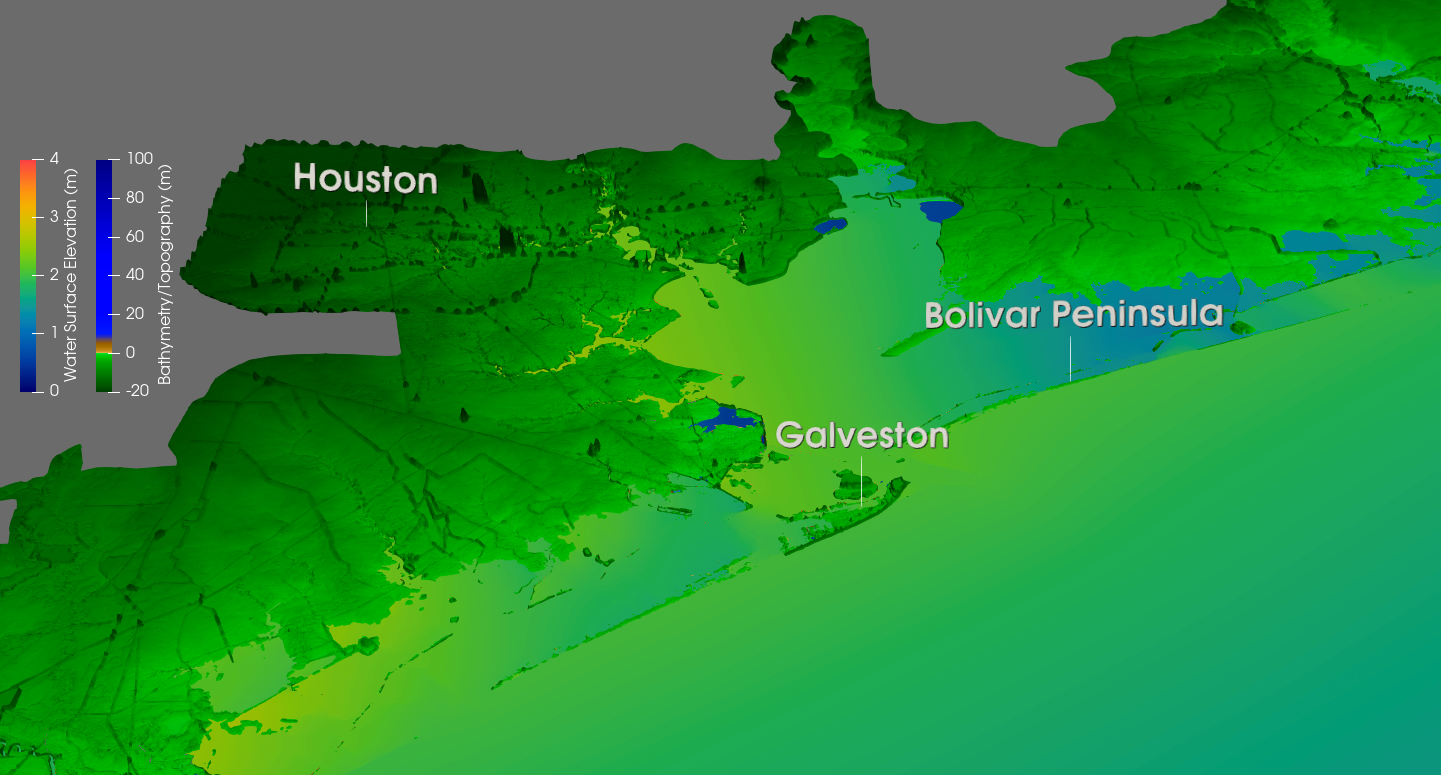
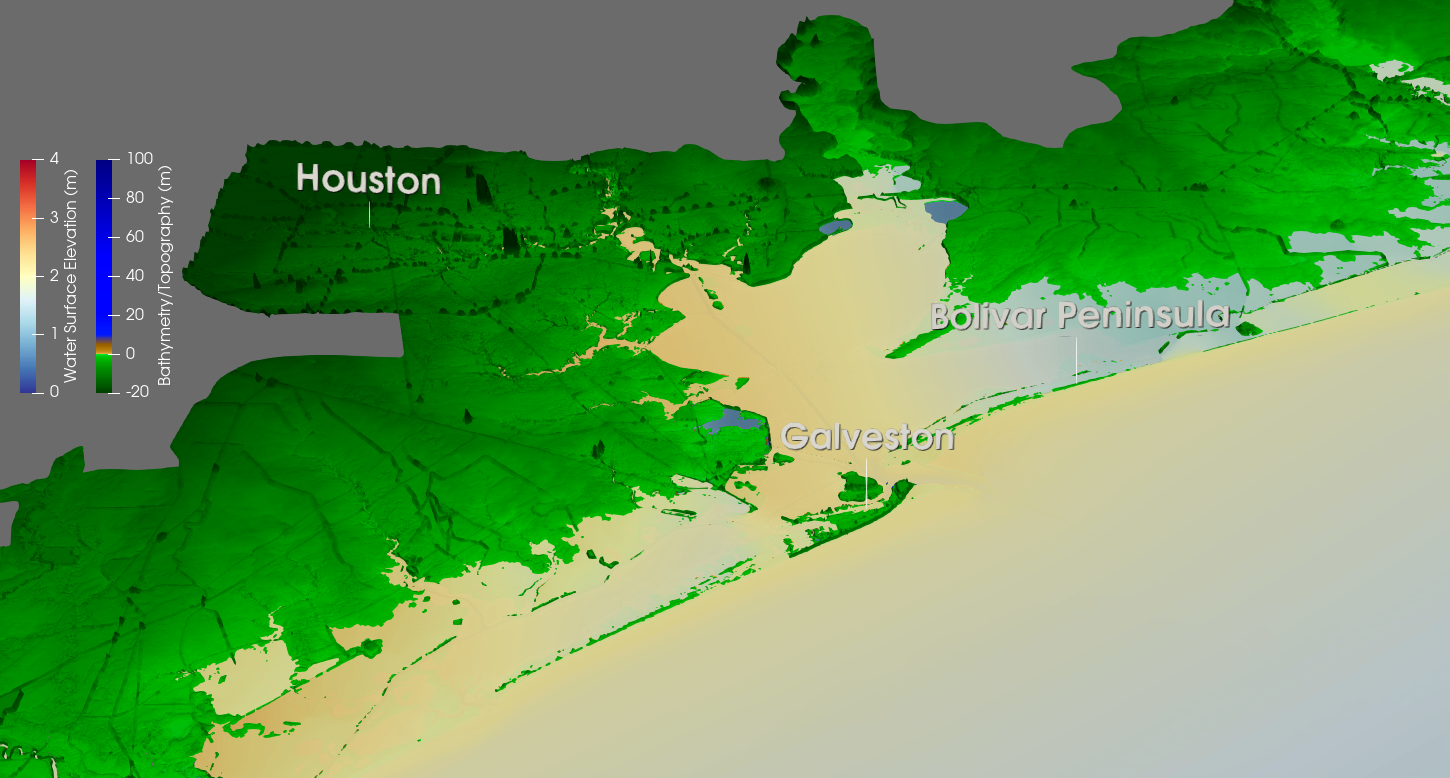
Update example case with new features

diff --git a/examples/la-tx-examples/ex-ts-beta/zoomToHouston3D.py b/examples/la-tx-examples/ex-ts-beta/zoomToHouston3D.py
@@ -1,7 +1,8 @@
-# trace generated using paraview version 5.8.0-RC2
-#
-# To ensure correct image size when batch processing, please search 
-# for and uncomment the line `# renderView*.ViewSize = [*,*]`
+# Script to zoom in to an ADCIRC domain, focusing on a 3D view of the Galveston-Houston area
+# Prerequisites: blueBrownGreenBathyTopo and RdYlBu_Brewer color maps must be loaded into ParaView
+
+# This script can handle a ParaView visualization made from following ADCIRC output files: 
+# maxele.63.nc, fort.63.nc, or combined fort.63.nc and fort.74.nc
 
 #### import the simple module from the paraview
 from paraview.simple import *
@@ -25,12 +26,22 @@ materialLibrary1 = GetMaterialLibrary()
 # reset view to fit data
 renderView1.ResetCamera()
 
+# set the camera position
 camera = GetActiveCamera()
 camera.SetFocalPoint(-95.19302128239202, 32.94282894775019, -2.89647689891553)
 camera.SetPosition(-94.85091145906816, 28.34005264848789, 0.9544883671462076)
 camera.SetViewUp(0.013093331933432064, 0.642206844249245, 0.7664195547207202)
 Render()
 
+# find source
+if (FindSource('fort.63.nc_fort.74.nc.xmf')) is not None:
+	generalSource = FindSource('fort.63.nc_fort.74.nc.xmf')
+elif (FindSource('fort.63.nc.xmf')) is not None:
+	generalSource = FindSource('fort.63.nc.xmf')
+elif (FindSource('maxele.63.nc.xmf')) is not None:
+	generalSource = FindSource('maxele.63.nc.xmf')
+
+#### This section defines the color mapping properties for bathymetry/topography ####
 # get color transfer function/color map for 'BathymetricDepth'
 bathymetricDepthLUT = GetColorTransferFunction('BathymetricDepth')
 bathymetricDepthLUT.RGBPoints = [-106.09833, 0.231373, 0.298039, 0.752941, 3938.042335, 0.865003, 0.865003, 0.865003, 7982.183, 0.705882, 0.0156863, 0.14902]
@@ -50,14 +61,6 @@ bathymetricDepthPWF.RescaleTransferFunction(-20.0, 100.0)
 # Properties modified on bathymetricDepthLUT
 bathymetricDepthLUT.AutomaticRescaleRangeMode = 'Never'
 
-# find source
-if (FindSource('fort.63.nc_fort.74.nc.xmf')) is not None:
-	generalSource = FindSource('fort.63.nc_fort.74.nc.xmf')
-elif (FindSource('fort.63.nc.xmf')) is not None:
-	generalSource = FindSource('fort.63.nc.xmf')
-elif (FindSource('maxele.63.nc.xmf')) is not None:
-	generalSource = FindSource('maxele.63.nc.xmf')
-
 # get color legend/bar for bathymetricDepthLUT in view renderView1
 bathymetricDepthLUTColorBar = GetScalarBar(bathymetricDepthLUT, renderView1)
 bathymetricDepthLUTColorBar.ComponentTitle = ''
@@ -69,53 +72,50 @@ bathymetricDepthLUTColorBar.Title = 'Bathymetry/Topography (m)'
 bathymetricDepthLUTColorBar.AddRangeLabels = 0
 bathymetricDepthLUTColorBar.ScalarBarLength = 0.3
 bathymetricDepthLUTColorBar.ScalarBarThickness = 16
+#### end definition of bathymetry/topography color map properties ####
 
-warpByScalar1 = WarpByScalar(Input=generalSource)
-warpByScalar1.Scalars = ['POINTS', 'BathymetricDepth']
-warpByScalar1.ScaleFactor = -0.001
-warpByScalar1Display = Show(warpByScalar1, renderView1, 'UnstructuredGridRepresentation')
+#### This section defines scalar warp properties to produce an exaggerated 3D effect based on bathymetry/topography values ####
+bathyTopoScalarWarp = WarpByScalar(registrationName='BathyTopoWarp',Input=generalSource)
+bathyTopoScalarWarp.Scalars = ['POINTS', 'BathymetricDepth']
+bathyTopoScalarWarp.ScaleFactor = -0.001
+bathyTopoScalarWarpDisplay = Show(bathyTopoScalarWarp, renderView1, 'UnstructuredGridRepresentation')
 Hide(generalSource, renderView1)
-warpByScalar1Display.SetScalarBarVisibility(renderView1, True)
+bathyTopoScalarWarpDisplay.SetScalarBarVisibility(renderView1, True)
 renderView1.Update()
 bathymetricDepthLUTColorBar.WindowLocation = 'AnyLocation'
 bathymetricDepthLUTColorBar.Position = [0.066870229007633, 0.4953642384105963]
+#### end definition of bathymetry/topography scalar warp properties ####
 
-# create a new 'Threshold'
-threshold1 = Threshold(Input=generalSource)
+#### This section defines the color mapping properties for water surface elevation ####
+# create a new 'Threshold' to filter out ADCIRC missing values for water surface elevation
+zetaThreshold = Threshold(registrationName='WaterSurfEleThreshold',Input=generalSource)
 if (FindSource('maxele.63.nc.xmf')) is not None:
-	threshold1.Scalars = ['POINTS', 'zeta_max']
+	zetaThreshold.Scalars = ['POINTS', 'zeta_max']
 else:
-	threshold1.Scalars = ['POINTS', 'zeta']
+	zetaThreshold.Scalars = ['POINTS', 'zeta']
 	
-threshold1.ThresholdRange = [-9999.0, 7982.183]
+zetaThreshold.ThresholdRange = [-9999.0, 7982.183]
 
 # show data in view
-threshold1Display = Show(threshold1, renderView1, 'UnstructuredGridRepresentation')
+zetaThresholdDisplay = Show(zetaThreshold, renderView1, 'UnstructuredGridRepresentation')
 
 # set scalar coloring
-ColorBy(threshold1Display, ('POINTS', threshold1.Scalars[1]))
+ColorBy(zetaThresholdDisplay, ('POINTS', zetaThreshold.Scalars[1]))
 
 # rescale color and/or opacity maps used to include current data range
-threshold1Display.RescaleTransferFunctionToDataRange(True, False)
+zetaThresholdDisplay.RescaleTransferFunctionToDataRange(True, False)
 
 # show color bar/color legend
-threshold1Display.SetScalarBarVisibility(renderView1, True)
+zetaThresholdDisplay.SetScalarBarVisibility(renderView1, True)
 
-# get color transfer function/color map for 'zeta'
-zetaLUT = GetColorTransferFunction(threshold1.Scalars[1])
-zetaLUT.RGBPoints = [-2.651, 0.231373, 0.298039, 0.752941, 0.8777015514658117, 0.865003, 0.865003, 0.865003, 4.406403102931623, 0.705882, 0.0156863, 0.14902]
-zetaLUT.ScalarRangeInitialized = 1.0
+# get color transfer function/color map for 'zeta' or 'zeta_max'
+zetaLUT = GetColorTransferFunction(zetaThreshold.Scalars[1])
 
-# get opacity transfer function/opacity map for 'zeta'
-zetaPWF = GetOpacityTransferFunction(threshold1.Scalars[1])
-zetaPWF.Points = [-2.651, 0.0, 0.5, 0.0, 4.406403102931623, 1.0, 0.5, 0.0]
-zetaPWF.ScalarRangeInitialized = 1
-
-# Hide orientation axes
-renderView1.OrientationAxesVisibility = 0
+# get opacity transfer function/opacity map for 'zeta' or 'zeta_max'
+zetaPWF = GetOpacityTransferFunction(zetaThreshold.Scalars[1])
 
 # Apply a preset using its name. Note this may not work as expected when presets have duplicate names.
-zetaLUT.ApplyPreset('erdc_rainbow_dark', True)
+zetaLUT.ApplyPreset('RdYlBu_Brewer', True)
 
 # Rescale transfer function
 zetaLUT.RescaleTransferFunction(0.0, 5.0)
@@ -124,9 +124,6 @@ zetaLUT.RescaleTransferFunction(0.0, 5.0)
 zetaPWF.RescaleTransferFunction(0.0, 5.0)
 
 zetaLUT.AutomaticRescaleRangeMode = 'Never'
-
-# Properties modified on threshold1Display
-threshold1Display.Opacity = 0.9
 
 # get color legend/bar for zetaLUT in view renderView1
 zetaLUTColorBar = GetScalarBar(zetaLUT, renderView1)
@@ -139,28 +136,30 @@ zetaLUTColorBar.Title = 'Water Surface Elevation (m)'
 zetaLUTColorBar.AddRangeLabels = 0
 zetaLUTColorBar.ScalarBarLength = 0.3
 zetaLUTColorBar.ScalarBarThickness = 16
+#### end definition of water surface elevation color map properties ####
 
-warpByScalar2 = WarpByScalar(Input=threshold1)
-warpByScalar2.Scalars = ['POINTS', threshold1.Scalars[1]]
-warpByScalar2.ScaleFactor = 0.001
-warpByScalar2Display = Show(warpByScalar2, renderView1, 'UnstructuredGridRepresentation')
-Hide(threshold1, renderView1)
-warpByScalar2Display.SetScalarBarVisibility(renderView1, True)
-#ColorBy(warpByScalar2Display, ('POINTS', threshold1.Scalars[1]))
+#### This section defines scalar warp properties to produce an exaggerated 3D effect based on water surface elevation values ####
+zetaScalarWarp = WarpByScalar(registrationName='WaterSurfEleWarp',Input=zetaThreshold)
+zetaScalarWarp.Scalars = ['POINTS', zetaThreshold.Scalars[1]]
+zetaScalarWarp.ScaleFactor = 0.001
+zetaScalarWarpDisplay = Show(zetaScalarWarp, renderView1, 'UnstructuredGridRepresentation')
+Hide(zetaThreshold, renderView1)
+zetaScalarWarpDisplay.SetScalarBarVisibility(renderView1, True)
+#ColorBy(zetaScalarWarpDisplay, ('POINTS', zetaThreshold.Scalars[1]))
 renderView1.Update()
 zetaLUTColorBar.WindowLocation = 'AnyLocation'
 zetaLUTColorBar.Position = [0.013879250520472147, 0.4953642384105963]
 
 # get display properties
-warpByScalar2Display = GetDisplayProperties(warpByScalar2, view=renderView1)
+zetaScalarWarpDisplay = GetDisplayProperties(zetaScalarWarp, view=renderView1)
 # set scalar coloring
-ColorBy(warpByScalar2Display, ('POINTS', threshold1.Scalars[1]))
+ColorBy(zetaScalarWarpDisplay, ('POINTS', zetaThreshold.Scalars[1]))
 # Hide the scalar bar for this color map if no visible data is colored by it.
 HideScalarBarIfNotNeeded(bathymetricDepthLUT, renderView1)
 # rescale color and/or opacity maps used to include current data range
-warpByScalar2Display.RescaleTransferFunctionToDataRange(True, False)
+zetaScalarWarpDisplay.RescaleTransferFunctionToDataRange(True, False)
 # show color bar/color legend
-warpByScalar2Display.SetScalarBarVisibility(renderView1, True)
+zetaScalarWarpDisplay.SetScalarBarVisibility(renderView1, True)
 # change scalar bar placement
 zetaLUTColorBar.WindowLocation = 'AnyLocation'
 zetaLUTColorBar.Position = [0.013879250520472147, 0.4953642384105963]
@@ -168,3 +167,11 @@ zetaLUTColorBar.Position = [0.013879250520472147, 0.4953642384105963]
 zetaLUT.RescaleTransferFunction(0.0, 5.0)
 # Rescale transfer function
 zetaPWF.RescaleTransferFunction(0.0, 5.0)
+
+# Opacity/lighting properties
+zetaScalarWarpDisplay.Opacity = 0.95
+zetaScalarWarpDisplay.Diffuse = 0.9
+#### end definition of water surface elevation scalar warp properties ####
+
+# Hide orientation axes
+renderView1.OrientationAxesVisibility = 0

diff --git a/examples/la-tx-examples/ex-ts-beta/labelsHouston.py b/examples/la-tx-examples/ex-ts-beta/labelsHouston.py
@@ -1,3 +1,6 @@
+# Script to add location labels, compatible with zoomToHouston3D script
+# coordinates of text base positions were obtained from lat/long values for each location
+
 #### import the simple module from the paraview
 from paraview.simple import *
 #### disable automatic camera reset on 'Show'
@@ -6,40 +9,44 @@ paraview.simple._DisableFirstRenderCameraReset()
 renderView1 = GetActiveViewOrCreate('RenderView')
 
 cam = GetActiveCamera()
+# get the viewUp vector for the camera
+# a scalar multiple of this vector will be added to each bottom coordinate of the text flagpoles
+# to obtain a top coordinate that ensures the text will face the camera
+# if this vector is not added, the text will not properly face the camera
 viewUp = cam.GetViewUp()
 viewUpScale = 0.05
 
-text1 = Text()
-text1Display = Show(text1, renderView1, 'TextSourceRepresentation')
-text1Display.TextPropMode = 'Flagpole Actor'
-text1.Text = 'Houston'
-text1Display.FontSize = 45
-text1Display.Bold = 1
-text1Display.Shadow = 1
-text1Display.BasePosition = [-95.3698, 29.7604, 0.0]
-text1Display.TopPosition = [-95.3698 + viewUp[0]*viewUpScale, 29.7604 + viewUp[1]*viewUpScale, viewUp[2]*viewUpScale]
+textHouston = Text(registrationName='TextHouston')
+textHoustonDisplay = Show(textHouston, renderView1, 'TextSourceRepresentation')
+textHoustonDisplay.TextPropMode = 'Flagpole Actor'
+textHouston.Text = 'Houston'
+textHoustonDisplay.FontSize = 45
+textHoustonDisplay.Bold = 1
+textHoustonDisplay.Shadow = 1
+textHoustonDisplay.BasePosition = [-95.3698, 29.7604, 0.0]
+textHoustonDisplay.TopPosition = [-95.3698 + viewUp[0]*viewUpScale, 29.7604 + viewUp[1]*viewUpScale, viewUp[2]*viewUpScale]
 renderView1.Update()
 
-text2 = Text()
-text2Display = Show(text2, renderView1, 'TextSourceRepresentation')
-text2Display.TextPropMode = 'Flagpole Actor'
-text2.Text = 'Galveston'
-text2Display.FontSize = 45
-text2Display.Bold = 1
-text2Display.Shadow = 1
-text2Display.BasePosition = [-94.7977, 29.3013, 0.0]
-text2Display.TopPosition = [-94.7977 + viewUp[0]*viewUpScale, 29.3013 + viewUp[1]*viewUpScale, viewUp[2]*viewUpScale]
+textGalveston = Text(registrationName='TextGalveston')
+textGalvestonDisplay = Show(textGalveston, renderView1, 'TextSourceRepresentation')
+textGalvestonDisplay.TextPropMode = 'Flagpole Actor'
+textGalveston.Text = 'Galveston'
+textGalvestonDisplay.FontSize = 45
+textGalvestonDisplay.Bold = 1
+textGalvestonDisplay.Shadow = 1
+textGalvestonDisplay.BasePosition = [-94.7977, 29.3013, 0.0]
+textGalvestonDisplay.TopPosition = [-94.7977 + viewUp[0]*viewUpScale, 29.3013 + viewUp[1]*viewUpScale, viewUp[2]*viewUpScale]
 renderView1.Update()
 
-text3 = Text()
-text3Display = Show(text3, renderView1, 'TextSourceRepresentation')
-text3Display.TextPropMode = 'Flagpole Actor'
-text3.Text = 'Bolivar Peninsula'
-text3Display.FontSize = 45
-text3Display.Bold = 1
-text3Display.Shadow = 1
-text3Display.BasePosition = [-94.5799, 29.4783, 0.0]
-text3Display.TopPosition = [-94.5799 + viewUp[0]*viewUpScale, 29.4783 + viewUp[1]*viewUpScale, viewUp[2]*viewUpScale]
+textBolivarP = Text(registrationName='TextBolivarP')
+textBolivarPDisplay = Show(textBolivarP, renderView1, 'TextSourceRepresentation')
+textBolivarPDisplay.TextPropMode = 'Flagpole Actor'
+textBolivarP.Text = 'Bolivar Peninsula'
+textBolivarPDisplay.FontSize = 45
+textBolivarPDisplay.Bold = 1
+textBolivarPDisplay.Shadow = 1
+textBolivarPDisplay.BasePosition = [-94.5799, 29.4783, 0.0]
+textBolivarPDisplay.TopPosition = [-94.5799 + viewUp[0]*viewUpScale, 29.4783 + viewUp[1]*viewUpScale, viewUp[2]*viewUpScale]
 renderView1.Update()
 
 # Create a new 'Light'

diff --git a/examples/la-tx-examples/ex-ts-beta/README.md b/examples/la-tx-examples/ex-ts-beta/README.md
@@ -11,12 +11,12 @@ since here the XDMF file is already provided). These instructions also explain h
 Now run the ``zoomToHouston3D.py`` script from this directory. You can either run it from ParaView's built-in Python shell, or load it as a macro. After running this script, the
 visualization should look like this:
 
-![](./beta-step1.png)
+![](./beta-step2.png)
 
 ## Step 3: Apply labels script
 After running the ``labelsHouston.py`` script, the visualization should look like this:
 
-![](./beta-step2.png)
+![](./beta-step3.png)
 
 ## Step 4: Change upper bound of the water surface elevation color map
 Now we will use the ``changeZetaUpBound.py`` script to change the upper bound of the water surface elevation color map from 5 meters to 4 meters. After running this script, a
